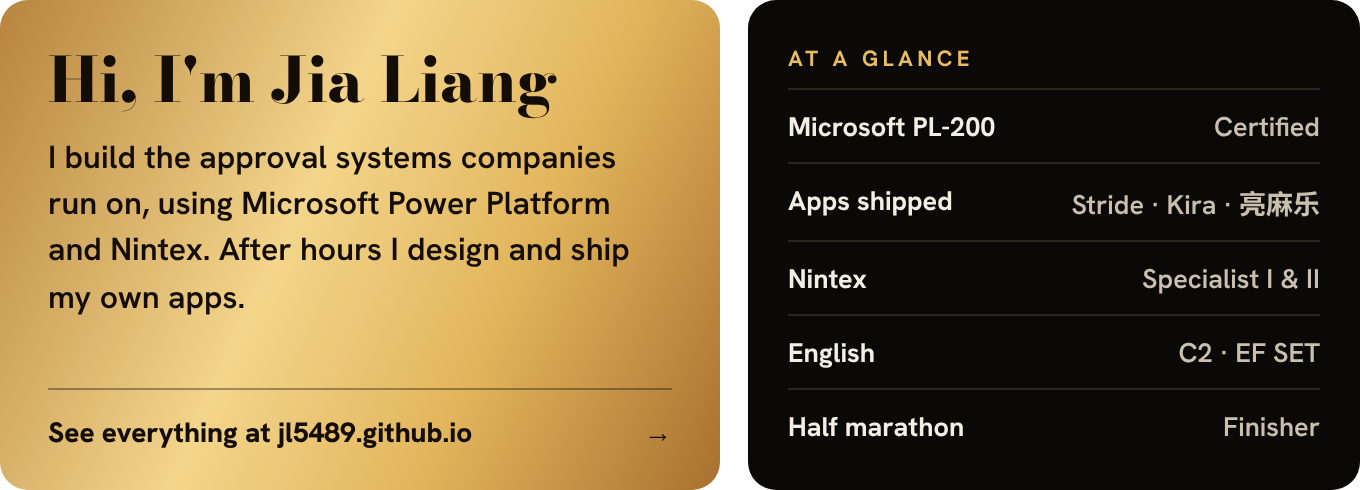
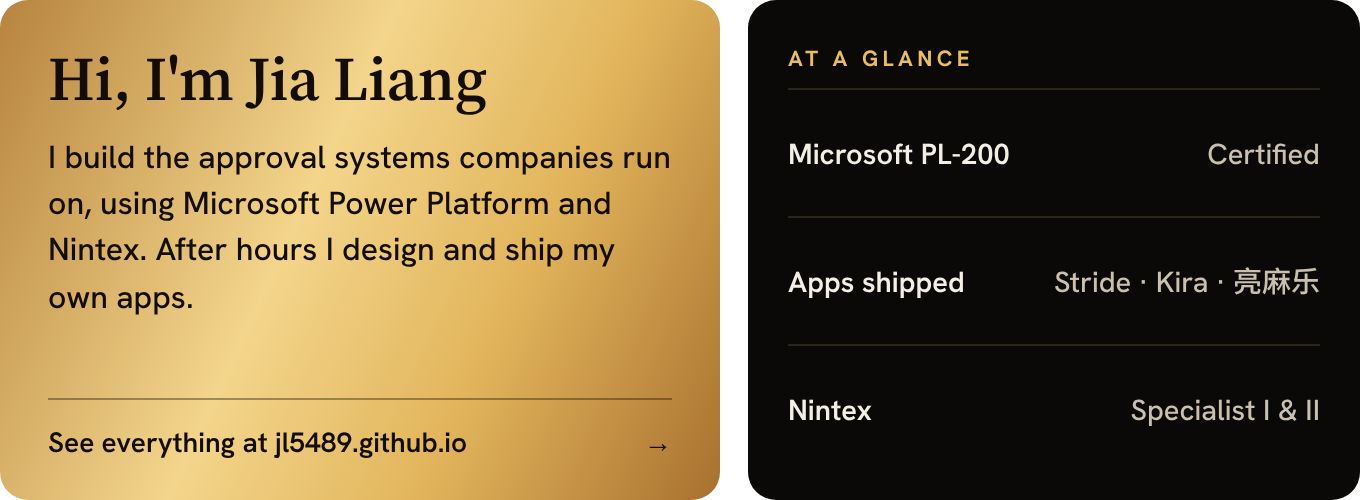
Profile README: Source Serif heading, shorter At a glance

diff --git a/README.md b/README.md
@@ -1,4 +1,4 @@
-<a href="https://jl5489.github.io/"><img src="duo.png" alt="Hi, I'm Jia Liang. I build the approval systems companies run on, using Microsoft Power Platform and Nintex. After hours I design and ship my own apps. At a glance: Microsoft PL-200 certified; apps shipped: Stride, Kira, 亮麻乐; Nintex Specialist I and II; English C2 (EF SET); half marathon finisher." width="100%"></a>
+<a href="https://jl5489.github.io/"><img src="duo.png" alt="Hi, I'm Jia Liang. I build the approval systems companies run on, using Microsoft Power Platform and Nintex. After hours I design and ship my own apps. At a glance: Microsoft PL-200 certified; apps shipped: Stride, Kira, 亮麻乐; Nintex Specialist I and II."" width="100%"></a>
 
 <table>
 <tr><td width="36%"><a href="https://jl5489.github.io/#stride-title"><img src="tStride.png" width="100%"></a></td><td><h3><a href="https://jl5489.github.io/#stride-title">Stride</a></h3>Android<br><br>A free running and cycling app. Every run turns into a 3D flyover video you can post to your stories.</td></tr>
